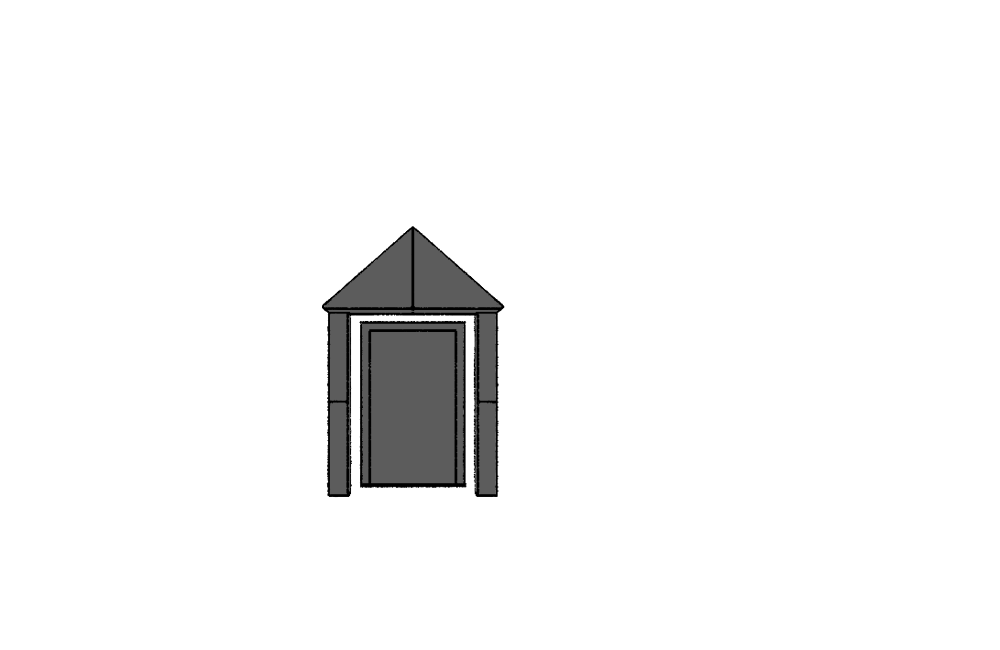
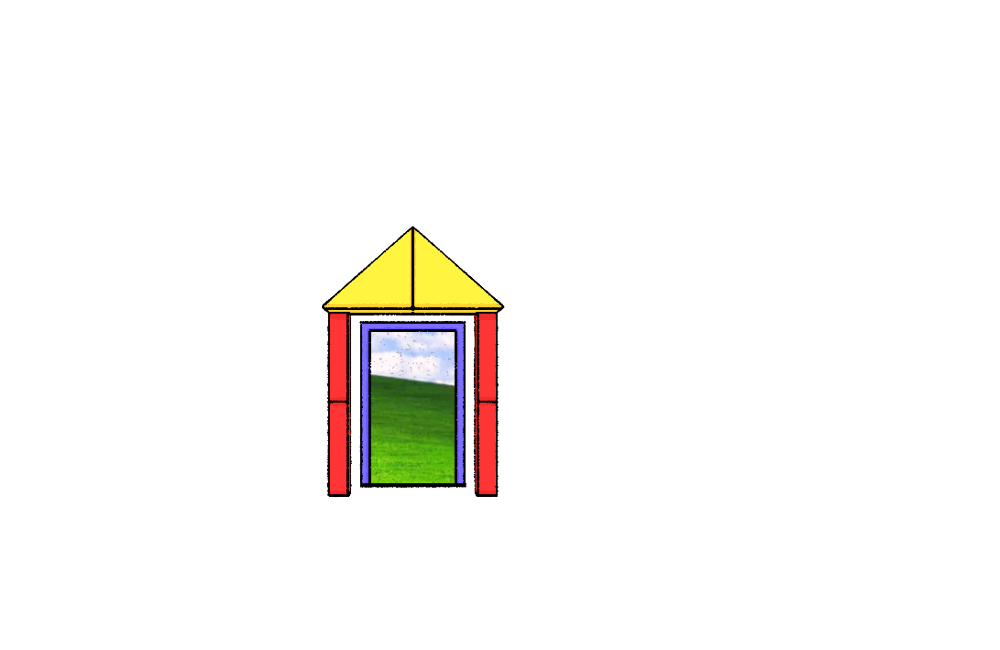
new acid pics

Changed region(s): [[0.31, 0.3385, 0.496, 0.7692]]

diff --git a/src/main/java/com/example/escape_the_lab/controller/AcidNeutralizationLab.java b/src/main/java/com/example/escape_the_lab/controller/AcidNeutralizationLab.java
@@ -1,3 +1,4 @@
+/// line 58-71, 84-87
 package com.example.escape_the_lab.controller;
 
 import com.example.escape_the_lab.model.Item;
@@ -52,12 +53,22 @@ public class AcidNeutralizationLab extends Lab {
     boolean succeedLab = false;
     rAcidNeutralization acidNeutralizationLabUI;
     private LifeManager lifeManager;
+
     Item chosenItem;
-    Item substanceItem1 = new Item("Hydrochloric Acid", "/images/pt2.png");
-    Item substanceItem2 = new Item("Sulfuric Acid", "/images/pt3.png");
-    Item substanceItem3 = new Item("Sodium Hydroxide", "/images/pt4.png");
-    Item substanceItem4 = new Item("Ammonia", "/images/pt5.png");
-    Item substanceItem5 = new Item("Acetic Acid", "/images/pt6.png");
+    ///  Those are the tool images.
+    Item redTool = new Item("Calcium Carbonate", "/images/AAAAcidLab/rTA.png");
+    Item yellowTool = new Item("Sulfuric Acid", "/images/AAAAcidLab/yTA.png");
+    Item substanceItem3 = new Item("Sodium Hydroxide", "/images/pt2.png"); //naoh
+    Item pinkTool = new Item("Ammonia", "/images/AAAAcidLab/pTA.png");
+    Item purpleTool = new Item("Acetic Acid", "/images/AAAAcidLab/puTA.png");
+
+    ///  Those are the actual potions, images that SHOULD be put on the scene,
+    /// once you click these images, the tool pics on top should appear. Ex:
+    /// click -> red. In the inventory, redTool will be added.
+    private final ImageView red = new ImageView(new Image(Objects.requireNonNull(getClass().getResource("/images/AAAAcidLab/rA.png")).toExternalForm()));
+    private final ImageView yellow = new ImageView(new Image(Objects.requireNonNull(getClass().getResource("/images/AAAAcidLab/yA.png")).toExternalForm()));
+    private final ImageView pink = new ImageView(new Image(Objects.requireNonNull(getClass().getResource("/images/AAAAcidLab/pA.png")).toExternalForm()));
+    private final ImageView purple = new ImageView(new Image(Objects.requireNonNull(getClass().getResource("/images/AAAAcidLab/puA.png")).toExternalForm()));
 
     public Overlay overlay;
     KillPlayer killPlayer;
@@ -69,6 +80,11 @@ public class AcidNeutralizationLab extends Lab {
     private final ImageView hintFlowerA = new ImageView(new Image(Objects.requireNonNull(getClass().getResource("/images/AAAAcidLab/hintFlowerA.png")).toExternalForm()));
     private final ImageView acidFloorA = new ImageView(new Image(Objects.requireNonNull(getClass().getResource("/images/AAAAcidLab/acidA.png")).toExternalForm()));
     private final ImageView inventory = new ImageView(new Image(Objects.requireNonNull(getClass().getResource("/images/inventory.png")).toExternalForm()));
+
+    /// Zoomed image of the house, and the picture that should be set invisible at the beginning,
+    /// only visible after you solve the lab (it covers up the acid on the ground.)
+    private final ImageView houseZA = new ImageView(new Image(Objects.requireNonNull(getClass().getResource("/images/AAAAcidLab/houseZA.png")).toExternalForm()));
+    private final ImageView noAcid = new ImageView(new Image(Objects.requireNonNull(getClass().getResource("/images/AAAAcidLab/noAcidA.png")).toExternalForm()));
 
     public AcidNeutralizationLab(Stage stage) {
         this.primaryStage = stage;
@@ -670,10 +686,10 @@ public class AcidNeutralizationLab extends Lab {
         HBox substanceRow = new HBox(10);
         substanceRow.setAlignment(Pos.CENTER);
         substanceRow.setTranslateY(-130);
-        addSubstanceToRow(substanceRow, substanceItem1);
-        addSubstanceToRow(substanceRow, substanceItem2);
+        addSubstanceToRow(substanceRow, redTool);
+        addSubstanceToRow(substanceRow, yellowTool);
         addSubstanceToRow(substanceRow, substanceItem3);
-        addSubstanceToRow(substanceRow, substanceItem4);
+        addSubstanceToRow(substanceRow, pinkTool);
 
 
         centerPane.getChildren().addAll(table, substanceRow);
@@ -689,10 +705,10 @@ public class AcidNeutralizationLab extends Lab {
         returnButton.setLayoutY(150);
         returnButton.setOnAction(e -> primaryStage.setScene(createScene()));
 
-        handleSubstanceCollection(substanceItem1);
-        handleSubstanceCollection(substanceItem2);
+        handleSubstanceCollection(redTool);
+        handleSubstanceCollection(yellowTool);
         handleSubstanceCollection(substanceItem3);
-        handleSubstanceCollection(substanceItem4);
+        handleSubstanceCollection(pinkTool);
         root.getChildren().addAll(centerPane, instructionLabel, returnButton, inventory, overlay.getOverlayPane());
 
 
@@ -722,13 +738,13 @@ public class AcidNeutralizationLab extends Lab {
     }
 
     private void showCollectedSubstanceInLab(Item substanceItem) {
-        if (substanceItem == substanceItem1) {
+        if (substanceItem == redTool) {
             AcidImage1.setOpacity(1.0);
-        } else if (substanceItem == substanceItem2) {
+        } else if (substanceItem == yellowTool) {
             AcidImage2.setOpacity(1.0);
         } else if (substanceItem == substanceItem3) {
             AcidImage3.setOpacity(1.0);
-        } else if (substanceItem == substanceItem4) {
+        } else if (substanceItem == pinkTool) {
             AcidImage4.setOpacity(1.0);
         }
     }

diff --git a/src/main/java/com/example/escape_the_lab/ui/rCircuit.java b/src/main/java/com/example/escape_the_lab/ui/rCircuit.java
@@ -18,6 +18,8 @@ import javafx.scene.media.MediaPlayer;
 import javafx.stage.Stage;
 import javafx.util.Duration;
 
+import java.util.ArrayList;
+import java.util.List;
 import java.util.Objects;
 
 public class rCircuit {
@@ -30,6 +32,7 @@ public class rCircuit {
     private boolean resTooLow = false;
     private boolean resTooHigh = false;
     private LifeManager lifeManager = GameController.getLifeManager();
+    private final Player player = GameController.getPlayer();
 
     ImageView inventoryImage = new ImageView(new Image(Objects.requireNonNull(getClass().getResource("/images/inventory.png")).toExternalForm()));
     ImageView back = new ImageView(new Image(Objects.requireNonNull(getClass().getResource("/images/back.png")).toExternalForm()));
@@ -80,6 +83,15 @@ public class rCircuit {
     Item res3Item = new Item("120 Ohm Resistor", "/images/AAACircuitLab/res3item.png");
     Item res4Item = new Item("100 Ohm Resistor", "/images/AAACircuitLab/res4item.png");
 
+    // Monologue
+    private final ImageView fail = new ImageView(new Image(Objects.requireNonNull(getClass().getResource("/images/gameFail.png")).toExternalForm()));
+    private final ImageView failF = new ImageView(new Image(Objects.requireNonNull(getClass().getResource("/images/gameFailF.png")).toExternalForm()));
+    private final ImageView goBack = new ImageView(new Image(Objects.requireNonNull(getClass().getResource("/images/goBack.png")).toExternalForm()));
+    private final ImageView retourner = new ImageView(new Image(Objects.requireNonNull(getClass().getResource("/images/retourner.png")).toExternalForm()));
+    List<ImageView> monologues = new ArrayList<>();
+    List<ImageView> monologuesF = new ArrayList<>();
+    List<ImageView> monologuesL = new ArrayList<>();
+
     public rCircuit(Stage stage) {
         this.stage = stage;
         this.overlay = GameController.getOverlay();
@@ -98,6 +110,16 @@ public class rCircuit {
 
     public Scene makeScene() {
         StackPane stackPane = new StackPane();
+
+        if (Objects.equals(player.getLanguage(), "english")) {
+            monologuesL.clear();
+            monologuesL = monologues;
+        } else {
+            monologuesL.clear();
+            monologuesL = monologuesF;
+        }
+        monologues.addAll(List.of(fail, goBack));
+        monologuesF.addAll(List.of(failF, retourner));
 
         Button skipToNext = new Button("Skip to next");
         skipToNext.setTranslateX(-400);
@@ -150,12 +172,16 @@ public class rCircuit {
         }
 
         if (isLedOn) {
-            doorSoundPLayer.seek(new Duration(0));
-            doorSoundPLayer.play();
+            if (player.isSoundOn()) {
+                doorSoundPLayer.seek(new Duration(0));
+                doorSoundPLayer.play();
+            }
             stackPane.getChildren().addAll(ledOn);
         } else if (resTooLow) {
-            shatterSoundPlayer2.seek(new Duration(0));
-            shatterSoundPlayer2.play();
+            if (player.isSoundOn()) {
+                shatterSoundPlayer2.seek(new Duration(0));
+                shatterSoundPlayer2.play();
+            }
             stackPane.getChildren().add(ledBroken);
         }
 
@@ -226,7 +252,9 @@ public class rCircuit {
     }
 
     private void breakGlass() {
-        shatterSoundPlayer.play();
+        if (player.isSoundOn()) {
+            shatterSoundPlayer.play();
+        }
         head.setVisible(true);
         head.setMouseTransparent(false);
         body.setVisible(true);
